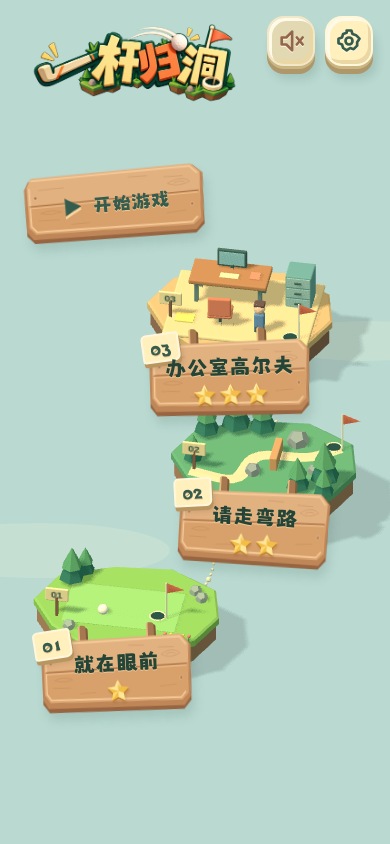
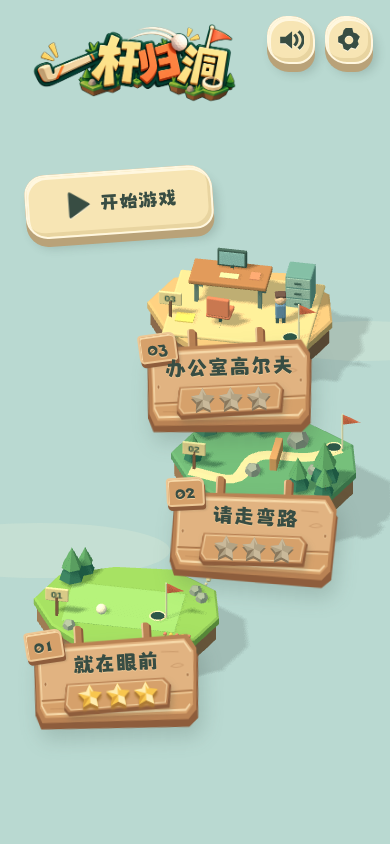
feat: unify toy UI props and derive medals from saved records

diff --git a/src/main.ts b/src/main.ts
@@ -4,9 +4,12 @@ import "./fonts.css";
 import "./typography.css";
 import "./stage-a.css";
 import "./stage-b.css";
+import "./ui-tokens.css";
+import "./ui-kit.css";
+import { carvedPlaque, recordMedals, solidIcon, toyFace, powerSegments } from "./ui-kit";
 import { routeMap } from "./route-map";
 import { Music } from "./music";
-import { woodProp, difficultyStars, bulbProp } from "./ui-props";
+import { woodProp, bulbProp } from "./ui-props";
 import { icon } from "./ui-icons";
 import gameLogo from "./assets/game-logo.png";
 import { levels } from "./levels";
@@ -19,9 +22,9 @@ import { victory, readScores } from "./records";
 function boot() {
   const app = document.querySelector<HTMLDivElement>("#app")!;
   app.innerHTML = `<div class="cloud cloud-a"></div><div class="cloud cloud-b"></div><div id="viewport"><canvas aria-label="立体高尔夫球场：按住白球向后拖拽，松手击球"></canvas></div>
-<header><button id="home" class="icon" aria-label="返回选关">${icon("home")}</button><div class="header-tools"><button id="sound" class="icon" aria-label="关闭音效" aria-pressed="true">${icon("sound")}<span class="icon-label">音效开</span></button><button id="settings-open" class="icon" aria-label="打开设置" aria-haspopup="dialog">${icon("settings")}<span class="icon-label">设置</span></button></div></header>
-<section id="menu"><div class="logo has-official-logo"><h1><img class="official-logo" src="${gameLogo}" width="2023" height="777" alt="一杆归洞" draggable="false" fetchpriority="high"></h1></div><div id="map-labels">${destinations.map((d, i) => `<button class="map-label" data-level="${i}" aria-label="进入第${i + 1}关 ${d.title}">${woodProp()}<span class="plank-hangers" aria-hidden="true"></span><span class="level-number" aria-hidden="true">0${i+1}</span><strong>${d.title}</strong>${difficultyStars(i+1)}<i class="progress" aria-label="通关进度"></i></button>`).join("")}</div><button id="start" class="wood-sign">${woodProp()}<span class="start-play" aria-hidden="true">▶</span><strong>开始游戏</strong></button><button id="menu-assist" hidden class="assist-setting" aria-pressed="false">⚑ 办公室路线辅助：关闭</button></section>
-<section id="game" hidden><div class="level-title">${woodProp()}<span id="subtitle"></span><h2 id="title"></h2></div><div id="shot" class="shot">● 一杆机会</div><div id="tutorial" hidden><span class="hand">☝</span><strong>拖拽白球，松手击球</strong><button id="tutorial-close">知道了</button></div><div class="game-bottom"><div class="feedback"><span id="status" role="status" aria-live="polite">拖拽白球以瞄准</span><div class="power-row"><span class="tee-icon" aria-hidden="true">⚑</span><div class="meter"><i id="power"></i><span class="meter-ticks"></span><span class="power-ball" aria-hidden="true"></span></div><b id="percent">0%</b></div></div><div class="controls"><button id="retry">↻ 重试</button><button id="back" hidden>▦ 选关</button><aside id="route-dock" hidden><button id="route-drawer" aria-label="打开路线提示" aria-expanded="false" aria-controls="route-content">${bulbProp()}</button><div id="route-content" hidden role="region" tabindex="0" aria-label="路线提示木牌，点击空白或按 Escape 收起"><span class="route-posts" aria-hidden="true"></span>${woodProp()}<h3>路线提示</h3><button id="route-close" aria-label="关闭路线提示">${icon("close")}</button><div id="route-map"></div><div id="route-help" role="status"><span id="route-message"></span><button id="offer-route" hidden>显示路线</button></div><button id="route-toggle" aria-pressed="false">显示路线</button></div></aside></div><p id="hint"></p></div></section>
+<header><button id="home" class="icon prop-button" aria-label="返回选关">${toyFace(solidIcon("home"))}</button><div class="header-tools"><button id="sound" class="icon prop-button" aria-label="关闭音效" aria-pressed="true">${icon("sound")}<span class="icon-label">音效开</span></button><button id="settings-open" class="icon prop-button" aria-label="打开设置" aria-haspopup="dialog">${toyFace(solidIcon("settings"))}</button></div></header>
+<section id="menu"><div class="logo has-official-logo"><h1><img class="official-logo" src="${gameLogo}" width="2023" height="777" alt="一杆归洞" draggable="false" fetchpriority="high"></h1></div><div id="map-labels">${destinations.map((d, i) => `<button class="map-label" data-level="${i}" aria-label="进入第${i + 1}关 ${d.title}">${carvedPlaque()}<span class="plank-hangers" aria-hidden="true"></span><span class="level-number" aria-hidden="true">0${i+1}</span><strong>${d.title}</strong>${recordMedals(undefined)}<i class="progress" aria-label="通关进度"></i></button>`).join("")}</div><button id="start" class="wood-sign prop-button">${toyFace(`${solidIcon("play")}<strong>开始游戏</strong>`)}</button><button id="menu-assist" hidden class="assist-setting" aria-pressed="false">⚑ 办公室路线辅助：关闭</button></section>
+<section id="game" hidden><div class="level-title">${carvedPlaque()}<span id="subtitle"></span><h2 id="title"></h2></div><div id="shot" class="shot">● 一杆机会</div><div id="tutorial" hidden><span class="hand">☝</span><strong>拖拽白球，松手击球</strong><button id="tutorial-close">知道了</button></div><div class="game-bottom"><div class="feedback"><span id="status" role="status" aria-live="polite">拖拽白球以瞄准</span><div class="power-row"><span class="tee-icon" aria-hidden="true">⚑</span><div class="meter"><i id="power"></i><span class="meter-ticks">${powerSegments()}</span><span class="power-ball" aria-hidden="true"></span></div><b id="percent">0%</b></div></div><div class="controls"><button id="retry" class="prop-button prop-button--coral">${toyFace(`${solidIcon("retry")}<span>重试</span>`)}</button><button id="back" hidden>▦ 选关</button><aside id="route-dock" hidden><button id="route-drawer" aria-label="打开路线提示" aria-expanded="false" aria-controls="route-content">${bulbProp()}</button><div id="route-content" hidden role="region" tabindex="0" aria-label="路线提示木牌，点击空白或按 Escape 收起"><span class="route-posts" aria-hidden="true"></span>${woodProp()}<h3>路线提示</h3><button id="route-close" aria-label="关闭路线提示">${icon("close")}</button><div id="route-map"></div><div id="route-help" role="status"><span id="route-message"></span><button id="offer-route" hidden>显示路线</button></div><button id="route-toggle" aria-pressed="false">显示路线</button></div></aside></div><p id="hint"></p></div></section>
 <dialog id="settings" aria-labelledby="settings-title"><div class="settings-frame" aria-hidden="true">${woodProp()}</div><div class="settings-head"><div class="settings-sign">${woodProp()}<h2 id="settings-title">设置</h2></div><button id="settings-close" class="icon" aria-label="关闭设置">${icon("close")}</button></div><div class="settings-paper"><div class="setting-row"><strong>♫ 音乐</strong><button id="settings-music" class="toy-switch" role="switch" aria-label="背景音乐" aria-checked="false"><span class="switch-knob"></span><b>关</b></button></div><div class="setting-row"><strong>♪ 音效</strong><button id="settings-sound" class="toy-switch" role="switch" aria-label="游戏音效" aria-checked="true"><span class="switch-knob"></span><b>开</b></button></div><button id="instructions-toggle" aria-expanded="false" aria-controls="instructions">玩法说明 <span aria-hidden="true">⌄</span></button><div id="instructions" hidden>向后拖拽白球，松手击球。<br>每次仅一杆，球经过洞口即通关。<br>第三关点击灯泡查看真实路线。</div></div><button id="settings-done">返回游戏</button></dialog>
 <div id="result" hidden><div class="resultbox" role="dialog" aria-modal="true" aria-labelledby="result-title"><div class="ribbon-confetti" aria-hidden="true"><i style="--n:0">★</i><i style="--n:1">▪</i><i style="--n:2">▪</i><i style="--n:3">★</i><i style="--n:4">▪</i><i style="--n:5">▪</i><i style="--n:6">★</i><i style="--n:7">▪</i><i style="--n:8">▪</i><i style="--n:9">★</i><i style="--n:10">▪</i><i style="--n:11">▪</i></div><div id="stars">✦ ★ ✦</div><span id="result-label"></span><h2 id="result-title"></h2><p id="result-text"></p><div id="result-stats" hidden><div><small>本次用时</small><strong id="score-time"></strong></div><div><small>历史最佳</small><strong id="score-best"></strong></div><div><small>反弹次数</small><strong id="score-bounces"></strong></div></div><div id="result-route-offer" hidden><span>需要路线提示吗？</span><button id="result-route">显示路线</button></div><div class="result-actions"><button id="next" class="primary">下一关 →</button><button id="retry-result">↻ 再试一次</button><button id="result-menu">返回选关</button></div></div></div><div id="webgl-error" hidden role="alert"><h2>这个小世界暂时无法打开</h2><p>游戏需要 WebGL。请使用较新的 Chrome、Edge、Firefox 或 Safari，并开启浏览器硬件加速后刷新页面。</p><button onclick="location.reload()">重新加载</button></div>`;
   const el = (id: string) => document.getElementById(id)!;
@@ -86,7 +89,7 @@ function boot() {
     sound.enabled = localStorage.getItem("golf-sound") !== "off";
   } catch {}
   function syncSound() {
-    el("sound").innerHTML = icon(sound.enabled ? "sound" : "muted") + `<span class="icon-label">${sound.enabled ? "音效开" : "已静音"}</span>`;
+    el("sound").innerHTML = toyFace(solidIcon(sound.enabled ? "sound" : "muted"));
     el("settings-sound").setAttribute("aria-checked", String(sound.enabled));
     el("settings-sound").querySelector("b")!.textContent = sound.enabled ? "开" : "关";
     el("sound").classList.toggle("muted", !sound.enabled);
@@ -121,14 +124,10 @@ function boot() {
     view.showMap();
     hover(-1);
     ball = createBall(levels[0]);
-    document
-      .querySelectorAll<HTMLElement>(".map-label")
-      .forEach(
-        (c, i) =>
-          (c.querySelector(".progress")!.textContent = completed.includes(i)
-            ? "✓"
-            : ""),
-      );
+    document.querySelectorAll<HTMLElement>(".map-label").forEach((c,i)=>{
+      c.querySelector(".medal-rack")!.outerHTML=recordMedals(best[String(i)],completed.includes(i));
+      c.querySelector(".progress")!.textContent="";
+    });
     requestAnimationFrame(() => view.resize());
   }
   function start(i: number) {
@@ -148,7 +147,7 @@ function boot() {
     el("game").hidden = false;
     el("result").hidden = true;
     el("title").textContent = levels[i].name;
-    el("subtitle").textContent = `第 0${i + 1} 关`;
+    el("subtitle").textContent = `0${i + 1}`;
     el("hint").textContent = [
       "箭头指向出球方向",
       "北侧缺口 → 南侧缺口",

diff --git a/src/ui-kit.css b/src/ui-kit.css
@@ -1,0 +1,93 @@
+/* Opt-in first-stage kit. B settings/route props and C ribbons keep their skins. */
+.plaque-art { filter: drop-shadow(var(--ui-contact)); }
+.plaque-side { fill: var(--ui-wood-side); }
+.plaque-bevel { fill: var(--ui-wood-bevel); }
+.plaque-front { fill: var(--ui-wood-front); }
+.plaque-upper { fill: var(--ui-wood-upper); }
+.plaque-highlight { fill: none; stroke: var(--ui-wood-light); stroke-width: 3; }
+.plaque-seam { stroke: var(--ui-wood-grain); stroke-width: 2; }
+.plaque-seam-light { stroke: var(--ui-wood-edge); stroke-width: 2; }
+.plaque-grain { fill: none; stroke: var(--ui-wood-grain); stroke-width: 1.5; opacity: .3; }
+.plaque-pegs { fill: var(--ui-wood-grain); stroke: var(--ui-wood-light); stroke-width: 1; }
+#map-labels .map-label { padding: 15px 24px 18px; min-width: 196px; min-height: 103px; color: var(--ui-ink); }
+#map-labels .map-label strong { font: var(--ui-weight) var(--ui-title-size)/1.3 var(--ui-font-title); color: var(--ui-ink); text-shadow: 0 1px var(--ui-wood-edge); }
+#map-labels .plank-hangers, #map-labels .plank-hangers::after { background: var(--ui-wood-bevel); border-left-color: var(--ui-wood-edge); box-shadow: 2px 2px var(--ui-wood-side); }
+#map-labels .level-number { top: -10px; left: -7px; background: var(--ui-wood-front); color: var(--ui-ink); border: 2px solid var(--ui-wood-edge); border-radius: 4px 7px 3px 5px; box-shadow: inset 1px 2px var(--ui-wood-light), 1px 4px var(--ui-wood-side), var(--ui-small-contact); text-shadow: 0 1px var(--ui-wood-edge); }
+.medal-rack { position: relative; display: flex; isolation: isolate; width: 122px; height: 40px; margin: 5px auto 0; justify-content: center; align-items: center; gap: 4px; padding: 2px 9px 6px; }
+.rack-base { position: absolute; inset: 0; width: 100%; height: 100%; z-index: -1; filter: drop-shadow(var(--ui-small-contact)); }
+.medal-star { width: 28px; height: 30px; flex: none; --star-face: var(--ui-star-empty); --star-side: var(--ui-star-empty-side); --star-light: var(--ui-star-empty-light); --star-bevel: var(--ui-star-empty-side); }
+.medal-star.earned { --star-face: var(--ui-star); --star-side: var(--ui-star-side); --star-light: var(--ui-star-light); --star-bevel: var(--ui-star-bevel); filter: drop-shadow(0 2px 1px var(--ui-star-side)); }
+.star-face { fill: var(--star-face); }
+.star-side { fill: var(--star-side); }
+.star-light { fill: var(--star-light); }
+.star-bevel { fill: var(--star-bevel); }
+.star-glint { fill: none; stroke: var(--star-light); stroke-width: 2; stroke-linecap: round; }
+#map-labels .map-label .progress { display: none; }
+/* Separate cap and stationary base: pressing the cap reveals less extrusion. */
+header .icon.prop-button, #start.wood-sign.prop-button, #game .controls > #retry.prop-button {
+  --button-front: var(--ui-cream); --button-base: var(--ui-cream-base); --button-top: var(--ui-cream-light); --button-bevel: var(--ui-cream-bevel);
+  position: relative; isolation: isolate; padding: 0; border: 0; border-radius: var(--ui-radius); background: var(--button-base); color: var(--ui-ink); box-shadow: 0 var(--ui-depth) 0 var(--button-base), var(--ui-contact); transition: none; text-shadow: none;
+}
+#start.wood-sign.prop-button { position: absolute; min-width: 226px; height: 72px; min-height: 72px; display: block; transform: rotate(-4deg); }
+.prop-face { display: flex; align-items: center; justify-content: center; gap: var(--ui-gap); width: 100%; height: 100%; padding: 12px 20px; border-radius: inherit; border: 2px solid var(--button-top); background: var(--button-front); box-shadow: inset 2px 3px 0 var(--button-top), inset -3px -4px 0 var(--button-bevel); color: inherit; transition: transform var(--ui-motion-return) var(--ui-ease), box-shadow var(--ui-motion-press); }
+.prop-button .solid-prop-icon { width: 30px; height: 30px; flex: none; filter: drop-shadow(0 1px var(--button-top)); pointer-events: none; }
+#start.wood-sign strong { font: var(--ui-weight) var(--ui-button-size)/1.25 var(--ui-font-title); }
+#start.wood-sign span { margin-left: 0; }
+header .icon.prop-button { width: 64px; height: 64px; display: block; }
+header .icon.prop-button .prop-face { padding: 10px; }
+header .icon.prop-button.muted { --button-front: var(--ui-cream-bevel); color: var(--ui-wood-side); }
+header .icon.prop-button:hover, header .icon.prop-button:active { transform: none; }
+#start.wood-sign.prop-button:hover, #start.wood-sign.prop-button:active { transform: rotate(-4deg); }
+.prop-button:hover > .prop-face { transform: translateY(-3px); }
+.prop-button:active > .prop-face { transform: translateY(var(--ui-press)) scale(.98,.95); box-shadow: inset 1px 2px 3px var(--button-bevel); transition-duration: var(--ui-motion-press); }
+#game .controls > #retry.prop-button { --button-front: var(--ui-coral); --button-base: var(--ui-coral-base); --button-top: var(--ui-coral-light); --button-bevel: var(--ui-coral-base); height: 60px; min-height: 60px; min-width: 152px; transform: none; }
+#game .controls > #retry.prop-button .prop-face { font: var(--ui-weight) var(--ui-button-size)/1.25 var(--ui-font-title); }
+#game .controls { gap: var(--ui-gap); justify-content: flex-end; }
+.level-title { display: flex; align-items: center; gap: var(--ui-gap); padding: 16px 23px 23px; min-height: 77px; color: var(--ui-ink); }
+.level-title > span { display: grid; place-items: center; flex: none; width: 39px; height: 37px; padding: 0; background: var(--ui-wood-front); border: 2px solid var(--ui-wood-edge); border-radius: 4px 6px 3px 4px; box-shadow: inset 1px 2px var(--ui-wood-light), 0 3px var(--ui-wood-side); font: var(--ui-weight) 21px/1 var(--ui-font-title); color: var(--ui-ink); }
+.level-title h2 { margin: 0; font-size: var(--ui-title-size); color: var(--ui-ink); text-shadow: 0 1px var(--ui-wood-edge); }
+#status, #shot, #percent { color: var(--ui-ink); }
+/* Actual individual blocks with a recessed seat, not a painted continuous strip. */
+.meter { border-color: var(--ui-cream); background: var(--ui-wood-bevel); box-shadow: inset 1px 3px 3px var(--ui-wood-side), 0 3px var(--ui-cream-bevel), 1px var(--ui-depth) var(--ui-cream-base), var(--ui-contact); }
+.meter-ticks { display: flex; gap: 3px; padding: 2px; inset: 1px; border-radius: 17px; background: none; box-shadow: none; overflow: hidden; }
+.meter-ticks::after { display: none; }
+.power-segment { flex: 1; background: var(--segment); border-radius: 2px; box-shadow: inset 0 2px 0 var(--ui-cream-bevel), inset 0 -2px 0 rgb(56 77 67 / .14); }
+.power-ball { background: radial-gradient(circle at 30% 24%,var(--ui-white) 0 35%,var(--ui-cream-light) 50%,var(--ui-ball-shade) 100%); border-color: var(--ui-white); box-shadow: inset 1px 2px var(--ui-white), var(--ui-small-contact); }
+.power-ball::after { background: radial-gradient(circle,var(--ui-ball-dimple) 0 1px,transparent 2px) 0 0/6px 6px; }
+@media(max-width:650px) {
+  #map-labels .map-label { min-width: 166px; min-height: 91px; padding: 12px 17px 17px; }
+  #map-labels .map-label strong { font-size: 21px; }
+  .medal-rack { width: 108px; height: 34px; margin-top: 4px; padding-bottom: 5px; gap: 3px; }
+  .medal-star { width: 25px; height: 27px; }
+  #start.wood-sign.prop-button { min-width: 188px; height: 64px; min-height: 64px; }
+  #start.wood-sign strong { font-size: 19px; }
+  .prop-face { padding: 9px 15px; gap: 9px; }
+  header .icon.prop-button { width: 48px; height: 48px; }
+  header .icon.prop-button .prop-face { padding: 8px; }
+  header .icon.prop-button .solid-prop-icon { width: 26px; height: 26px; }
+  .level-title { display: block; padding: 8px 14px 15px; min-height: 76px; }
+  .level-title > span { width: 26px; height: 22px; font-size: 14px; margin-bottom: 5px; }
+  .level-title h2 { font-size: 22px; }
+  #game .controls > #retry.prop-button { flex: 0 1 180px; width: 180px; min-height: 54px; height: 54px; }
+  #game .controls > #retry.prop-button .prop-face { font-size: 19px; }
+}
+@media(max-width:370px) {
+  header .icon.prop-button { width: 44px; }
+  .level-title { padding-left: 10px; padding-right: 10px; }
+  .level-title h2 { font-size: 16px; }
+  #start.wood-sign.prop-button { min-width: 170px; }
+}
+@media(max-height:530px) and (min-width:651px) {
+  #map-labels .map-label { min-height: 76px; padding: 9px 19px 15px; }
+  #map-labels .map-label strong { font-size: 20px; }
+  .medal-rack { height: 30px; width: 106px; margin-top: 3px; }
+  .medal-star { width: 23px; height: 25px; }
+  #start.wood-sign.prop-button { height: 60px; min-height: 60px; min-width: 196px; }
+  .level-title { min-height: 68px; padding: 12px 22px 20px; }
+  .level-title h2 { font-size: 21px; }
+}
+@media(prefers-reduced-motion:reduce) { .prop-face { transition: none; } }
+/* The legacy wooden start skin used !important to suppress its rectangular shadow. */
+#start.wood-sign.prop-button { box-shadow: 0 var(--ui-depth) 0 var(--button-base), var(--ui-contact) !important; }
+/* Moving focused map buttons must not auto-scroll the hidden application viewport. */
+#app { overflow: clip; }

diff --git a/src/ui-kit.ts b/src/ui-kit.ts
@@ -1,0 +1,37 @@
+// Read-only presentation grading. Existing score/progress storage is never written here.
+export function starsFromRecord(seconds: unknown, completed = false): number {
+  if (typeof seconds !== 'number' || !Number.isFinite(seconds) || seconds <= 0) return completed ? 1 : 0;
+  const value = Math.round(seconds * 100) / 100;
+  return value <= 3 ? 3 : value <= 5 ? 2 : 1;
+}
+export function carvedPlaque() {
+  return `<svg class="wood-prop plaque-art" viewBox="0 0 360 132" preserveAspectRatio="none" aria-hidden="true">
+  <path class="plaque-side" d="m12 16 326-7 21 22-7 88-20 12-321-7L0 104 3 32Z"/>
+  <path class="plaque-bevel" d="m13 7 325-6 18 20-7 86-18 13-317-5L3 98 5 24Z"/>
+  <path class="plaque-front" d="m20 12 310-5 19 18-7 75-15 12-306-4L11 94l1-66Z"/>
+  <path class="plaque-upper" d="m20 12 310-5 19 18-4 54-331 4-3-55Z"/>
+  <path class="plaque-highlight" d="m20 16 309-5 15 15M16 29l-1 62 9 12 302 4 10-8"/>
+  <path class="plaque-seam" d="m15 84 328-4"/><path class="plaque-seam-light" d="m16 87 326-4"/>
+  <g class="plaque-grain"><path d="m35 30 39-1m205-5 38 1m-284 71 46 1m168-3 48-1"/><path d="M299 45q14-7 27-1-13 5-27 1Z"/></g>
+  <g class="plaque-pegs"><circle cx="25" cy="61" r="3"/><circle cx="334" cy="58" r="3"/></g></svg>`;
+}
+export function recordMedals(seconds: unknown, completed = false) {
+  const count = starsFromRecord(seconds, completed);
+  const hasTime = typeof seconds === 'number' && Number.isFinite(seconds) && seconds > 0;
+  const label = `通关评价 ${count} 星，共 3 星${hasTime ? `，最佳 ${seconds.toFixed(2)} 秒` : completed ? '，已通关，暂无用时记录' : '，尚未通关'}`;
+  const shape = `<path class="star-side" d="m20 5 6 11 13 2-9 10 2 13-12-6-12 6 2-13-9-10 13-2Z"/><path class="star-face" d="m20 1 6 11 13 2-9 10 2 13-12-6-12 6 2-13-9-10 13-2Z"/><path class="star-light" d="M20 1v19L1 14l13-2Zm0 19 10 4 2 13-12-6Z"/><path class="star-bevel" d="m20 20-12 17 2-13Z"/><path class="star-glint" d="m17 9 3-5 4 8"/>`;
+  return `<span class="medal-rack" role="img" aria-label="${label}" title="通关一星 · 最佳用时≤5秒二星 · ≤3秒三星"><svg class="rack-base" viewBox="0 0 160 48" preserveAspectRatio="none" aria-hidden="true"><path fill="var(--ui-wood-side)" d="m4 6 147-3 9 8-4 32-149 5-7-9Z"/><path fill="var(--ui-wood-bevel)" d="m5 2 145-2 8 8-5 30-147 4-6-8Z"/><path fill="var(--ui-wood-front)" stroke="var(--ui-wood-edge)" stroke-width="2" d="m8 5 139-2 7 7-4 25-140 4-6-8Z"/></svg>${[0,1,2].map(i=>`<svg class="medal-star${i<count?' earned':''}" viewBox="0 0 40 42" aria-hidden="true">${shape}</svg>`).join('')}</span>`;
+}
+export function solidIcon(name: 'home'|'sound'|'muted'|'settings'|'play'|'retry') {
+ const paths = {
+  home:'<path d="m2 11 10-9 10 9-2 2-1-1v10h-5v-7h-4v7H5V12l-1 1Z"/>',
+  sound:'<path d="M2 9h5l6-5v16l-6-5H2Zm14-3c4 3 4 9 0 12l-2-2c3-2 3-6 0-8Zm4-3c6 5 6 13 0 18l-2-2c5-4 5-10 0-14Z"/>',
+  muted:'<path d="M2 9h5l6-5v16l-6-5H2Zm14-1 3 3 3-3 2 2-3 3 3 3-2 2-3-3-3 3-2-2 3-3-3-3Z"/>',
+  settings:'<path fill-rule="evenodd" d="m9 1 6 0 1 4 3 1 3 3-2 4 1 3-3 4-4-1-3 3-4-2-1-4-4-2 0-5 4-2 1-4Zm3 7a4 4 0 1 0 0 8 4 4 0 0 0 0-8Z"/>',
+  play:'<path d="M6 3q0-2 2-1l14 9q2 1 0 2L8 22q-2 1-2-1Z"/>',
+  retry:'<path d="M5 7a9 9 0 1 1-1 11l3-2a6 6 0 1 0 1-7l4 3H2V2Z"/>',
+ };
+ return `<svg class="solid-prop-icon" viewBox="0 0 24 24" fill="currentColor" aria-hidden="true">${paths[name]}</svg>`;
+}
+export function toyFace(content: string) { return `<span class="prop-face">${content}</span>`; }
+export function powerSegments() { return Array.from({length:10},(_,i)=>`<span class="power-segment" style="--segment:var(--ui-meter-${i})"></span>`).join(''); }

diff --git a/src/ui-tokens.css b/src/ui-tokens.css
@@ -1,0 +1,52 @@
+/* Opt-in UI kit. These values never recolour scene materials or legacy B/C props. */
+:root {
+  --ui-fog: #b9d9d1;
+  --ui-grass: #a9d578;
+  --ui-cream: #f7e5b4;
+  --ui-cream-light: #fff7df;
+  --ui-cream-bevel: #e8d4a0;
+  --ui-cream-base: #b9a278;
+  --ui-wood-front: #d6a16b;
+  --ui-wood-upper: #e1b381;
+  --ui-wood-side: #8e5d3c;
+  --ui-wood-bevel: #b98254;
+  --ui-wood-edge: #edc896;
+  --ui-wood-light: #f6d8a8;
+  --ui-wood-grain: #a87449;
+  --ui-star: #f8c64e;
+  --ui-star-light: #ffedb0;
+  --ui-star-bevel: #dda43a;
+  --ui-star-side: #ad7a34;
+  --ui-star-empty: #b2a385;
+  --ui-star-empty-light: #c9b99a;
+  --ui-star-empty-side: #89775c;
+  --ui-coral: #e97b53;
+  --ui-coral-light: #ffbd8d;
+  --ui-coral-base: #a7593c;
+  --ui-ink: #384d43;
+  --ui-white: #fffdf0;
+  --ui-ball-shade: #d4d4ba;
+  --ui-ball-dimple: #aeb59c;
+  --ui-meter-0: #79a968; --ui-meter-1: #8cb66f;
+  --ui-meter-2: #a0c476; --ui-meter-3: #b8ce7c;
+  --ui-meter-4: #d6d580; --ui-meter-5: #edda80;
+  --ui-meter-6: #f3cd73; --ui-meter-7: #edb364;
+  --ui-meter-8: #e69a5a; --ui-meter-9: #cf8250;
+  --ui-contact: 4px 10px 10px rgb(56 77 67 / .2);
+  --ui-small-contact: 2px 4px 3px rgb(56 77 67 / .22);
+  --ui-face-highlight: inset 2px 3px 0 var(--ui-cream-light);
+  --ui-face-bevel: inset -3px -4px 0 var(--ui-cream-bevel);
+  --ui-depth: 8px;
+  --ui-press: 5px;
+  --ui-radius: 20px 24px 18px 22px;
+  --ui-gap: 12px;
+  --ui-font-title: var(--font-title);
+  --ui-font-body: var(--font-body);
+  --ui-weight: 400; /* Both installed faces are real static Regular fonts. */
+  --ui-title-size: 24px;
+  --ui-button-size: 22px;
+  --ui-body-size: 16px;
+  --ui-motion-press: 110ms;
+  --ui-motion-return: 260ms;
+  --ui-ease: cubic-bezier(.2,1.5,.4,1);
+}

diff --git a/tests/ui-kit.test.ts b/tests/ui-kit.test.ts
@@ -1,0 +1,9 @@
+import assert from 'node:assert/strict';
+import {starsFromRecord,recordMedals} from '../src/ui-kit';
+for(const value of [undefined,null,NaN,Infinity,0,-1,'2.5'])assert.equal(starsFromRecord(value),0);
+assert.equal(starsFromRecord(undefined,true),1);
+for(const [time,count] of [[1.75,3],[3,3],[3.01,2],[5,2],[5.01,1],[9,1]])assert.equal(starsFromRecord(time),count);
+assert.equal((recordMedals(4.2).match(/medal-star earned/g)||[]).length,2);
+assert.ok(recordMedals(4.2).includes('最佳 4.20 秒'));
+assert.ok(recordMedals(undefined).includes('尚未通关'));
+console.log('PASS read-only medal grading: real times, boundaries, invalid records, legacy progress, no fake unlocked medals');

diff --git a/README.md b/README.md
@@ -192,3 +192,19 @@ npm run preview
 - 实际截图：`docs/screenshots/stage-b-settings-{desktop,mobile,small,landscape}.png`、`stage-b-bulb-*.png`、`stage-b-route-*.png`。均为浏览器运行截图。
 
 路线显示采用最多 0.25 秒的推荐快照，为模拟器原有的安全出杆窗口预留拖拽时间；没有改变搜索算法或人物时钟。动态人物仍需观察时机，过期路线会撤下，提示不保证任意等待后出杆仍然可行。
+
+## 本轮第一阶段：可复用微缩玩具 UI Kit
+
+先读取根目录 `ui-style-reference.png` 并对照既有截图：旧木牌纹理偏粗、主按钮和关卡牌缺少材质区分、图标偏细、颜色与阴影常量分散。本轮仅更新首页按钮／关卡牌／星章、顶部 HUD、游戏底部重试与力度计；设置、灯泡路线牌及横幅外观保持不变。
+
+- `src/ui-tokens.css` 集中材质色、倒角、高光、阴影、底座深度、字阶、间距、圆角和交互时长。雾青场景底色沿用原值；不覆盖 Three.js 材质或既有 B／C 组件变量。
+- `src/ui-kit.ts` 提供切角多面木牌、镶嵌木托的三枚奖牌、实心图标、按钮面盖与十段力度刻度；均为原创 SVG／DOM，未裁切参考图或重新生成 Logo。
+- `src/ui-kit.css` 仅让本轮组件选择性接入：木牌的正面／上缘／倒角／侧面分层，木纹与拼板缝避开文字；奶油按钮面盖可压入独立底座，重试使用珊瑚色。力度计各刻度为独立凹槽块，球形滑块仍读取原有力度比例。
+- 按最新要求，首页星星从“难度”改为“成绩评价”。纯展示层读取既有最佳用时：≤3.00 秒三星、≤5.00 秒二星，其余有效通关成绩一星；无成绩与进度时零星，未获得部分为低饱和暗星。旧通关进度缺少用时时仅亮一星。规则可在 `starsFromRecord` 调整，**没有改变 `records.ts` 或任何存储键／写入逻辑**，没有捏造额外成绩。
+- 字体继续采用已安装的猫啃什锦黑／合法黄油体静态 Regular 400，不伪造 600 字重。字体文件与许可证未变。
+- 与参考仍有差距：本轮为轻量矢量分层的 2.5D UI，没有引入复杂实时材质、场景投影模型或布料模拟；设置／提示牌／胜利横幅不在本轮改造范围。三座岛屿、背景、相机、关卡路线与物理未变。
+
+检查命令：`npm run build`、`npm test`、`./node_modules/.bin/tsx tests/ui-kit.test.ts`、`node tests/ui-kit.mjs`；选关与旧功能回归为 `node tests/menu.mjs`、`node tests/stage-b.mjs`、`node tests/rewards.mjs`。
+实际截图：`docs/screenshots/ui-kit-menu-{desktop,mobile,small}.png`、`ui-kit-level1-*.png`、`ui-kit-level3-*.png`。`ui-kit-records.png` 是测试存档（非用户实际成绩）的奖牌边界展示，其余关卡截图为真实浏览器操作。首页另提供实际完成第一关后的截图，以验证金星确实来自真实通关。
+
+另修复了选关过场中焦点跟随按钮而使隐藏容器横向滚动的问题：`#app` 使用不可滚动的裁切，真实通关返回首页后再切换桌面／手机也保持 `scrollLeft=0`。不改变相机或场景位置；浏览器测试包含该复现流程。
